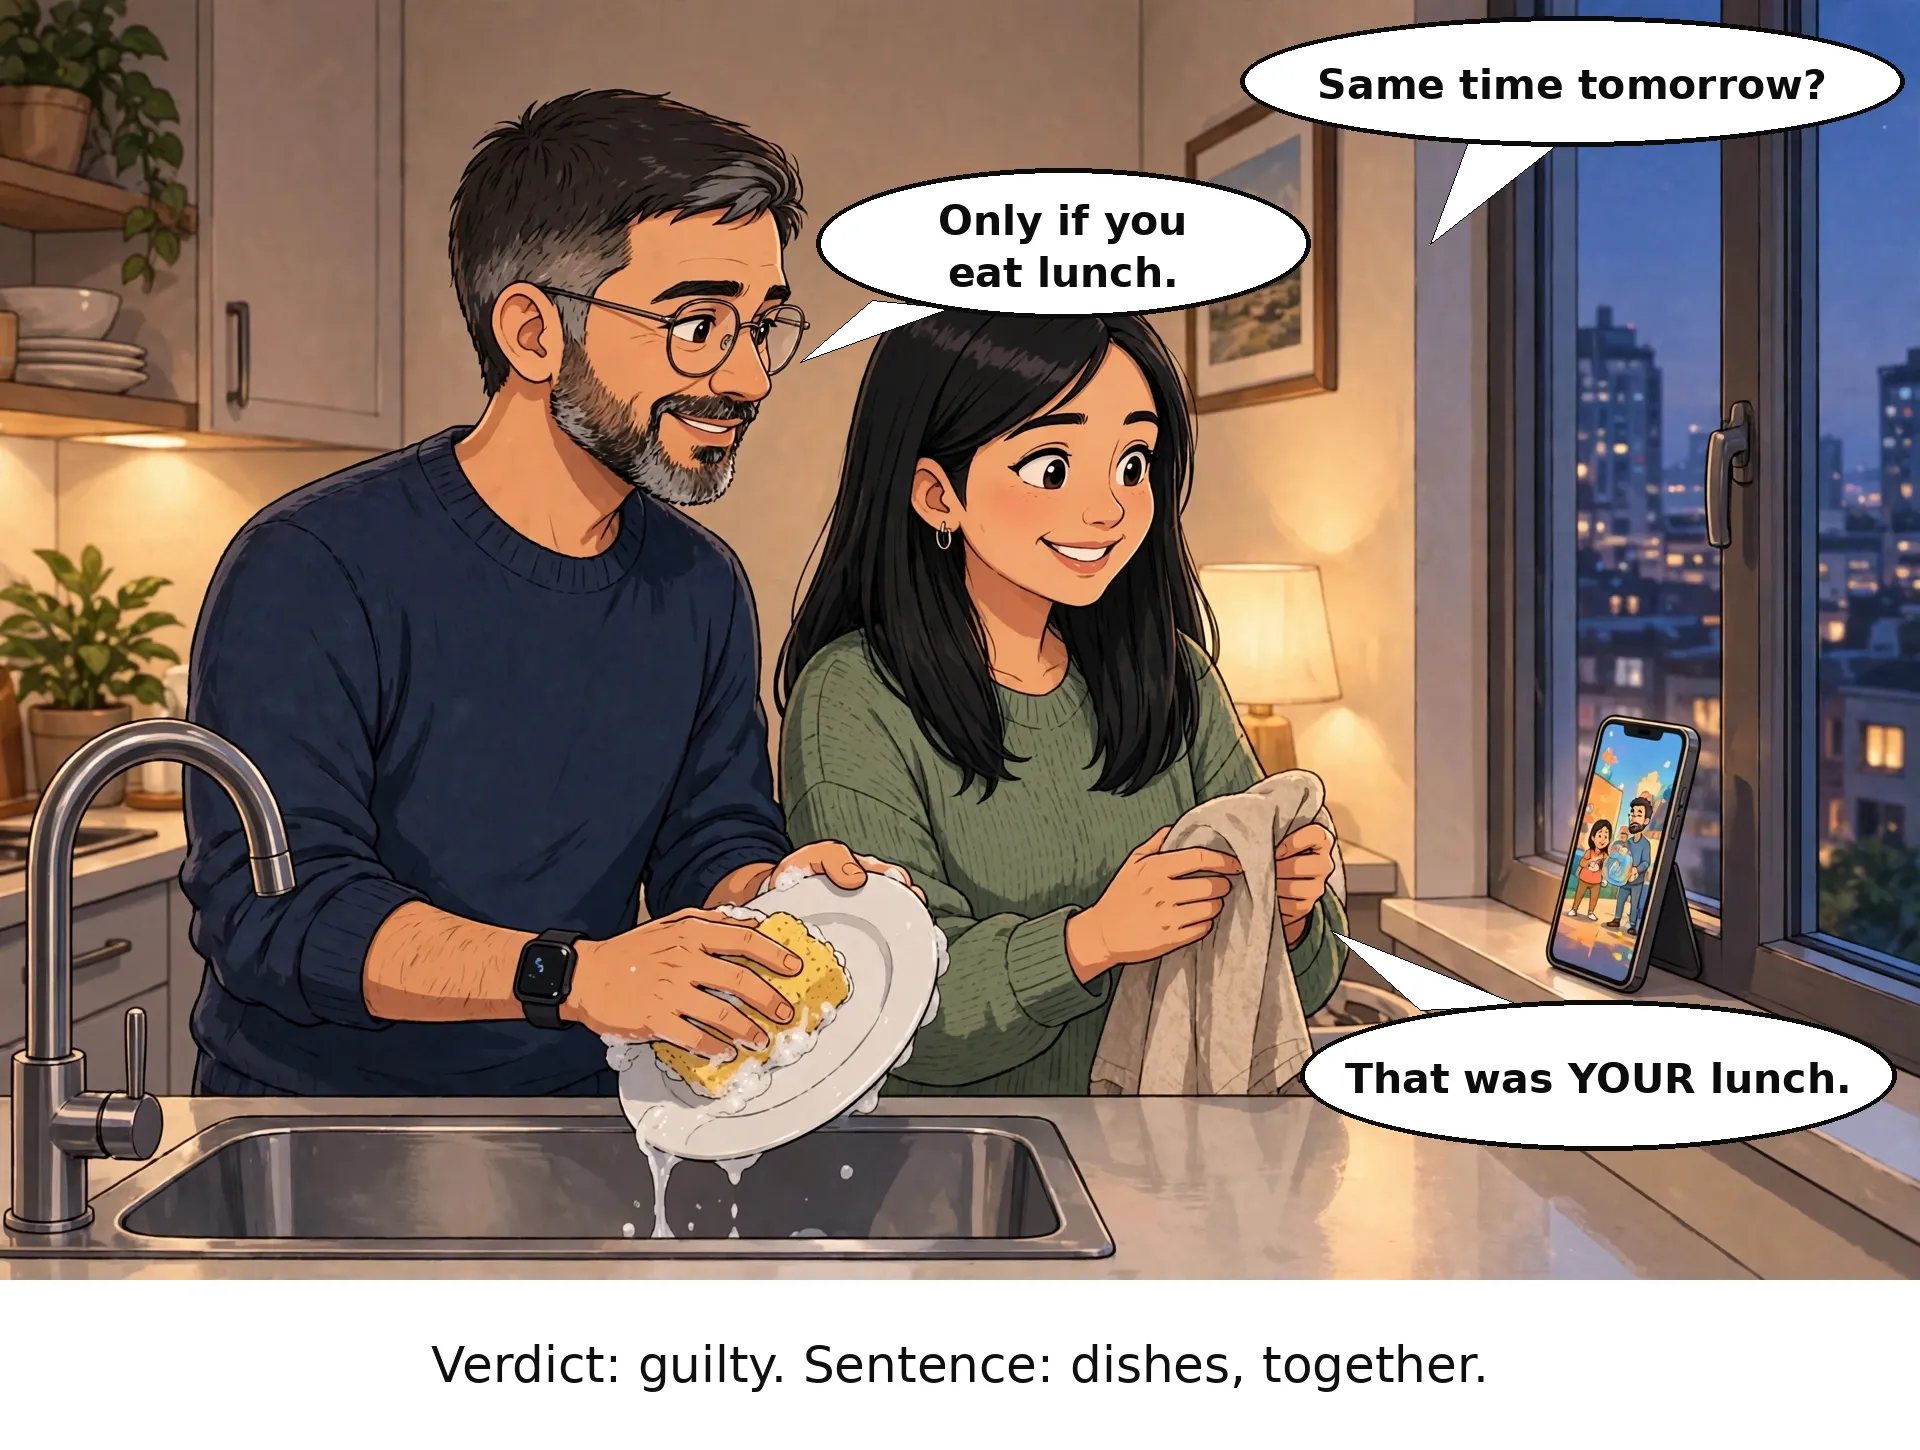
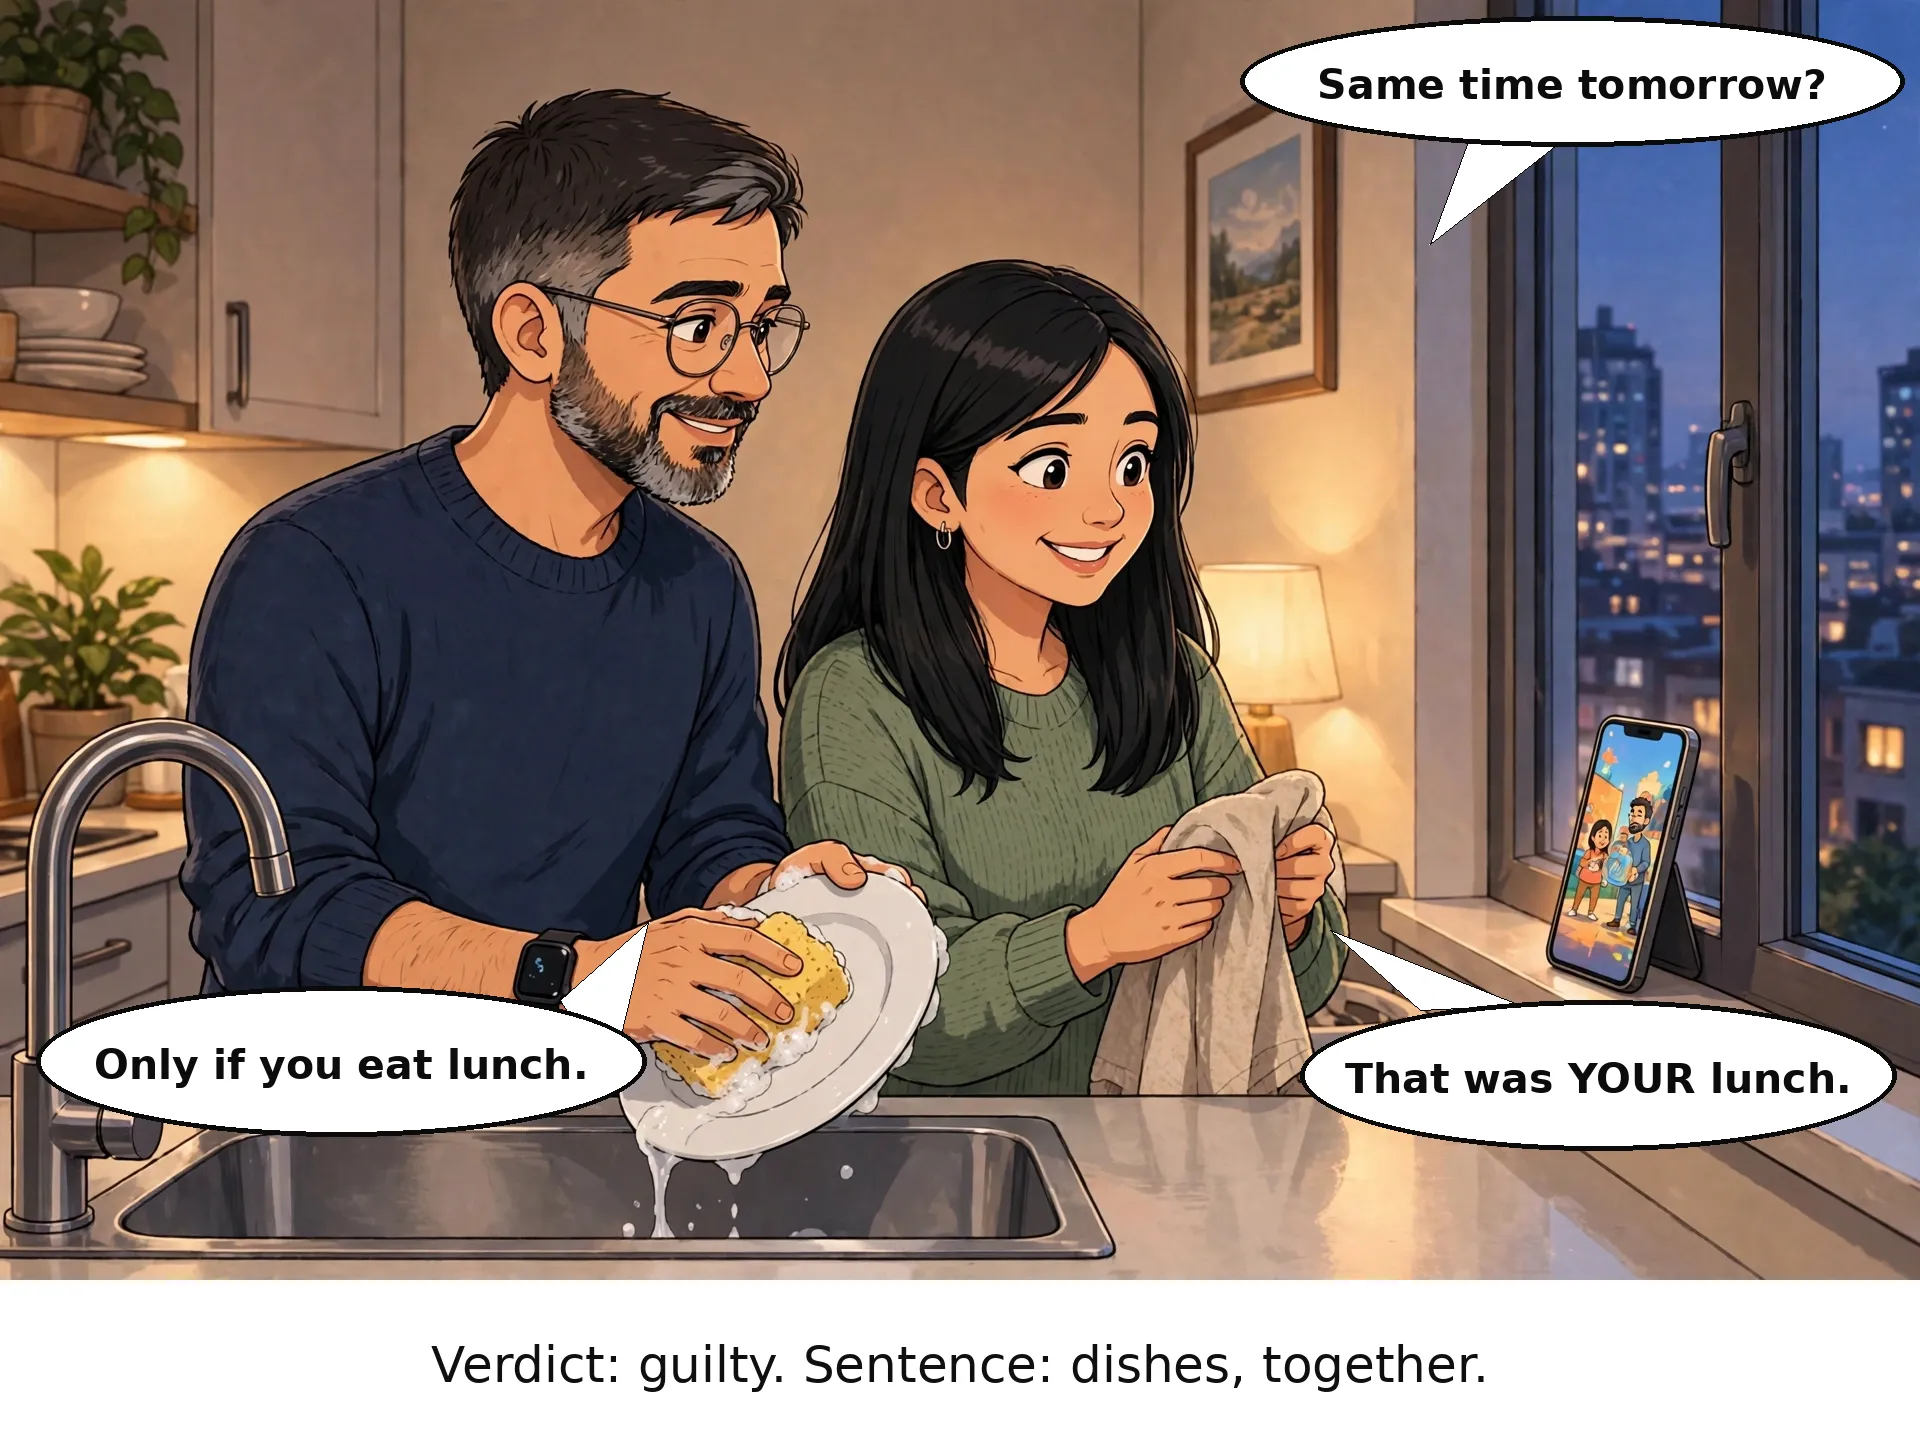
Strip 013 slide3: reply bubble to sink corner (owner: bad pass); LOCK placement corollary

Changed region(s): [[0.0, 0.6207, 0.3438, 0.8069], [0.4062, 0.0931, 0.6875, 0.2483]]

diff --git a/characters/LOCK.md b/characters/LOCK.md
@@ -71,6 +71,12 @@ panels or strips.
   NEVER cover a face — eyes, glasses, nose, mouth stay fully visible. Tails
   point to the speaker and may touch a hairline or shoulder edge only. Check
   every lettered panel for face coverage before presenting.
+  Corollary (owner 2026-10-21, after a bad pass): a bubble wedged BETWEEN the
+  two heads, resting on hair or jabbing a tail at glasses, is a FAIL even if
+  no facial feature is technically covered. Corners and edges of the frame
+  first; when in doubt, move the bubble to the counter/sink zone. The agent's
+  own pass is not sufficient evidence — when the owner asks, an independent
+  review checks placement, and its fails get fixed, not argued.
 - Format: vertical panel with a white caption band below (target 1080x1250);
   caption short and understated.
 - QC before presenting: faces identical to the approved strip; extra hands; odd
